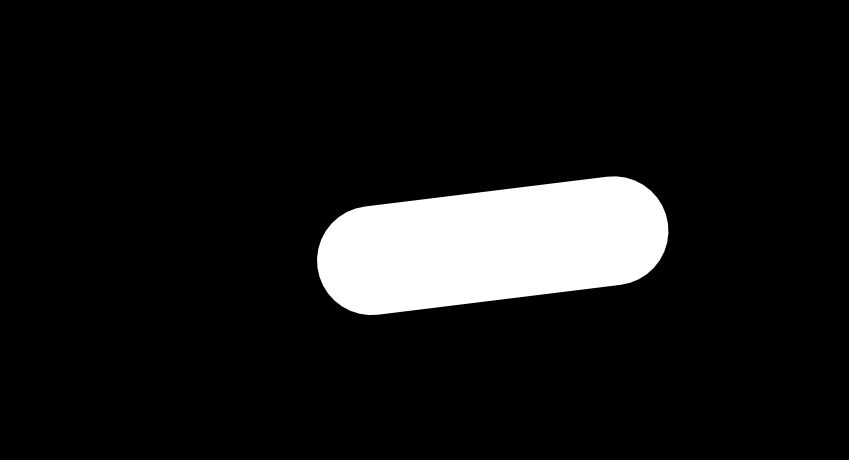
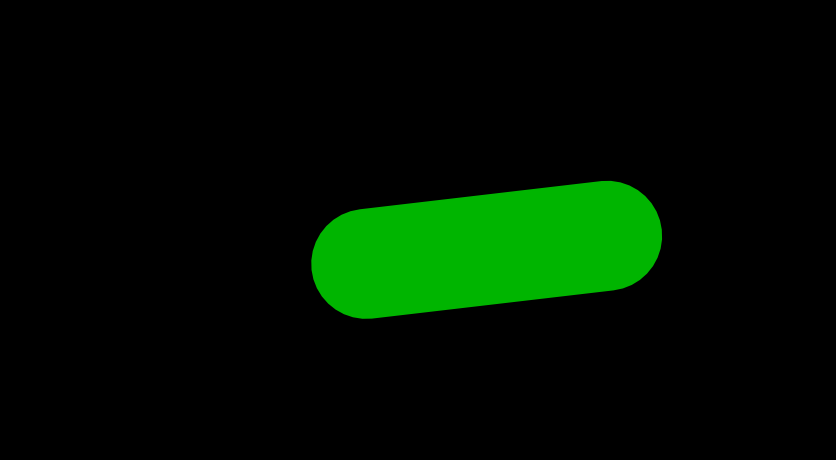
Using hockey camera's coordinates instead of a combination of real and Emil's camera coordinates. The image from the hockey camera is distorted, so it does not match the physical distances on the hockey table. An alternative approach would be to use a more advanced translation from hockey camera coo

Changed region(s): [[0.3732, 0.3652, 0.8086, 0.7]]

diff --git a/Limits.cpp b/Limits.cpp
@@ -80,7 +80,7 @@ namespace limitsns {
 // dock senast inom 5 sekunder.
 bool checkConstructive() {
 // TODO: Rethink where coordinates are handled!
-#define WIDTH	849
+#define WIDTH	836
 #define HEIGHT	460
 
 	PuckPosition puckPos = getPuckPosition();

diff --git a/Puck.cpp b/Puck.cpp
@@ -11,7 +11,7 @@
 using namespace std;
 
 // Class methods
-#define DISTANCETOGOAL	305
+#define DISTANCETOGOAL	315
 #define PUCKHISTORY		100
 
 struct Puck {

diff --git a/GUI.cpp b/GUI.cpp
@@ -10,7 +10,7 @@
 
 #include <process.h>
 
-#define WIDTH	849
+#define WIDTH	836
 #define HEIGHT	460
 #define PI 3.14159265
 
